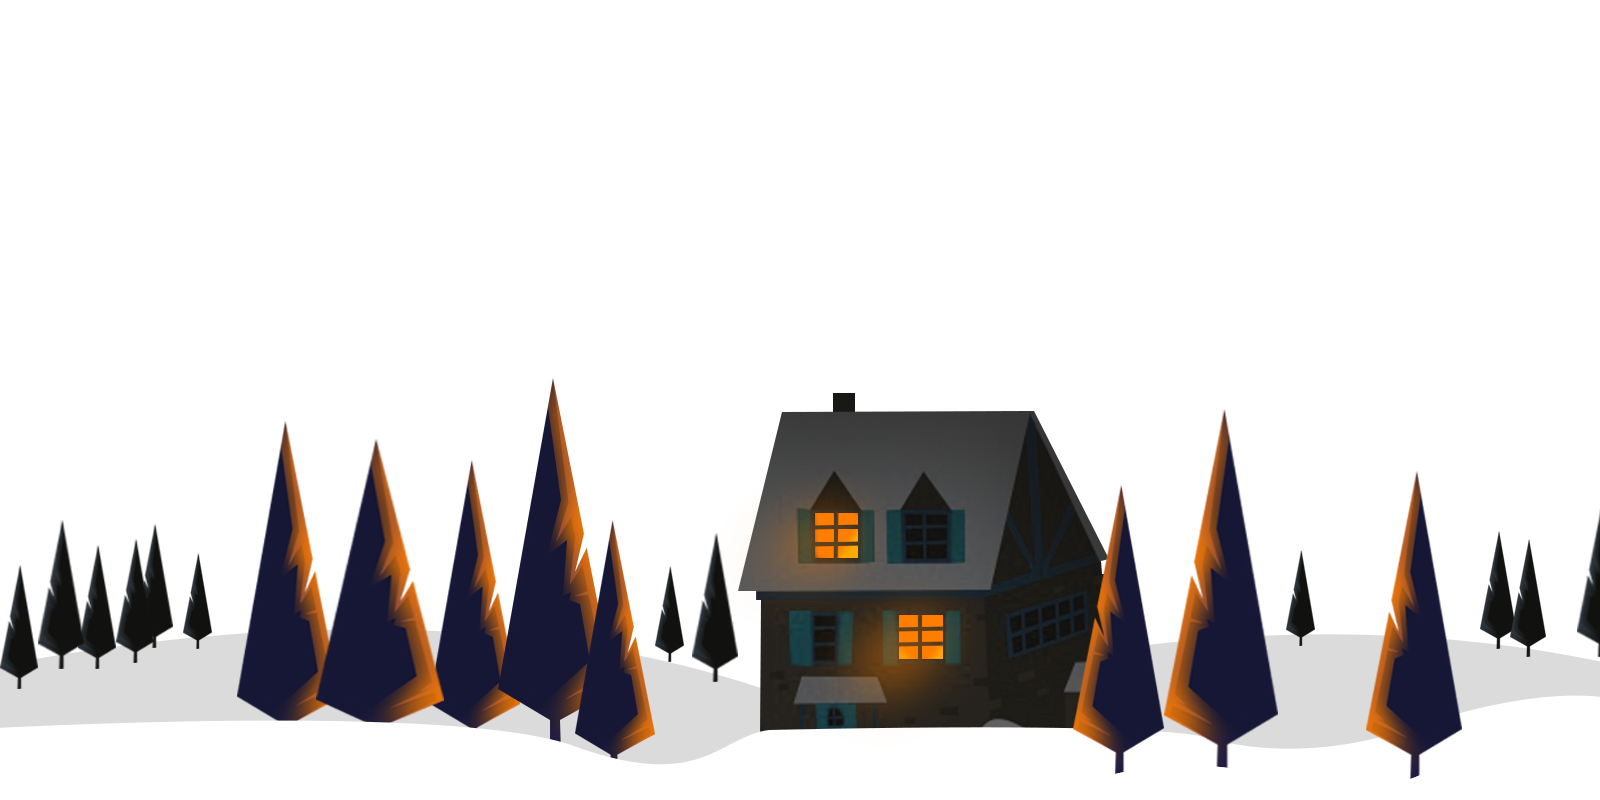
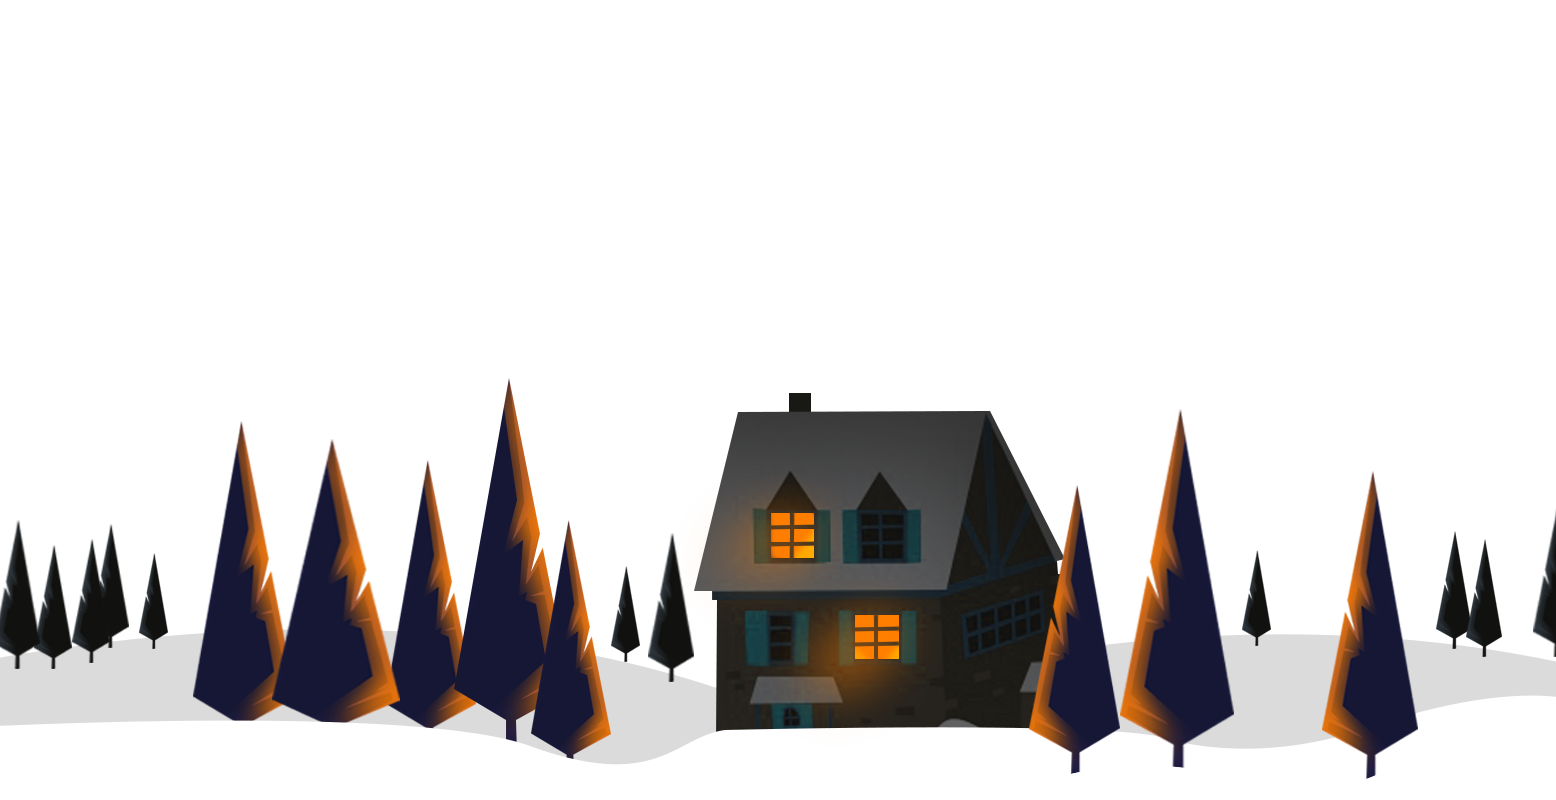
Add files via upload

Changed region(s): [[0.0, 0.4688, 0.8329, 0.9688], [0.8329, 0.5938, 0.9563, 0.9688]]

diff --git a/PAR_CANVAS/style.css b/PAR_CANVAS/style.css
@@ -34,7 +34,7 @@ body{
 .domElki{
     position: absolute;
     top: 0;
-    left: -23px;
+    left: 0;
     width: 100%;
     height: 100vh;
     background: url(dom.png);
